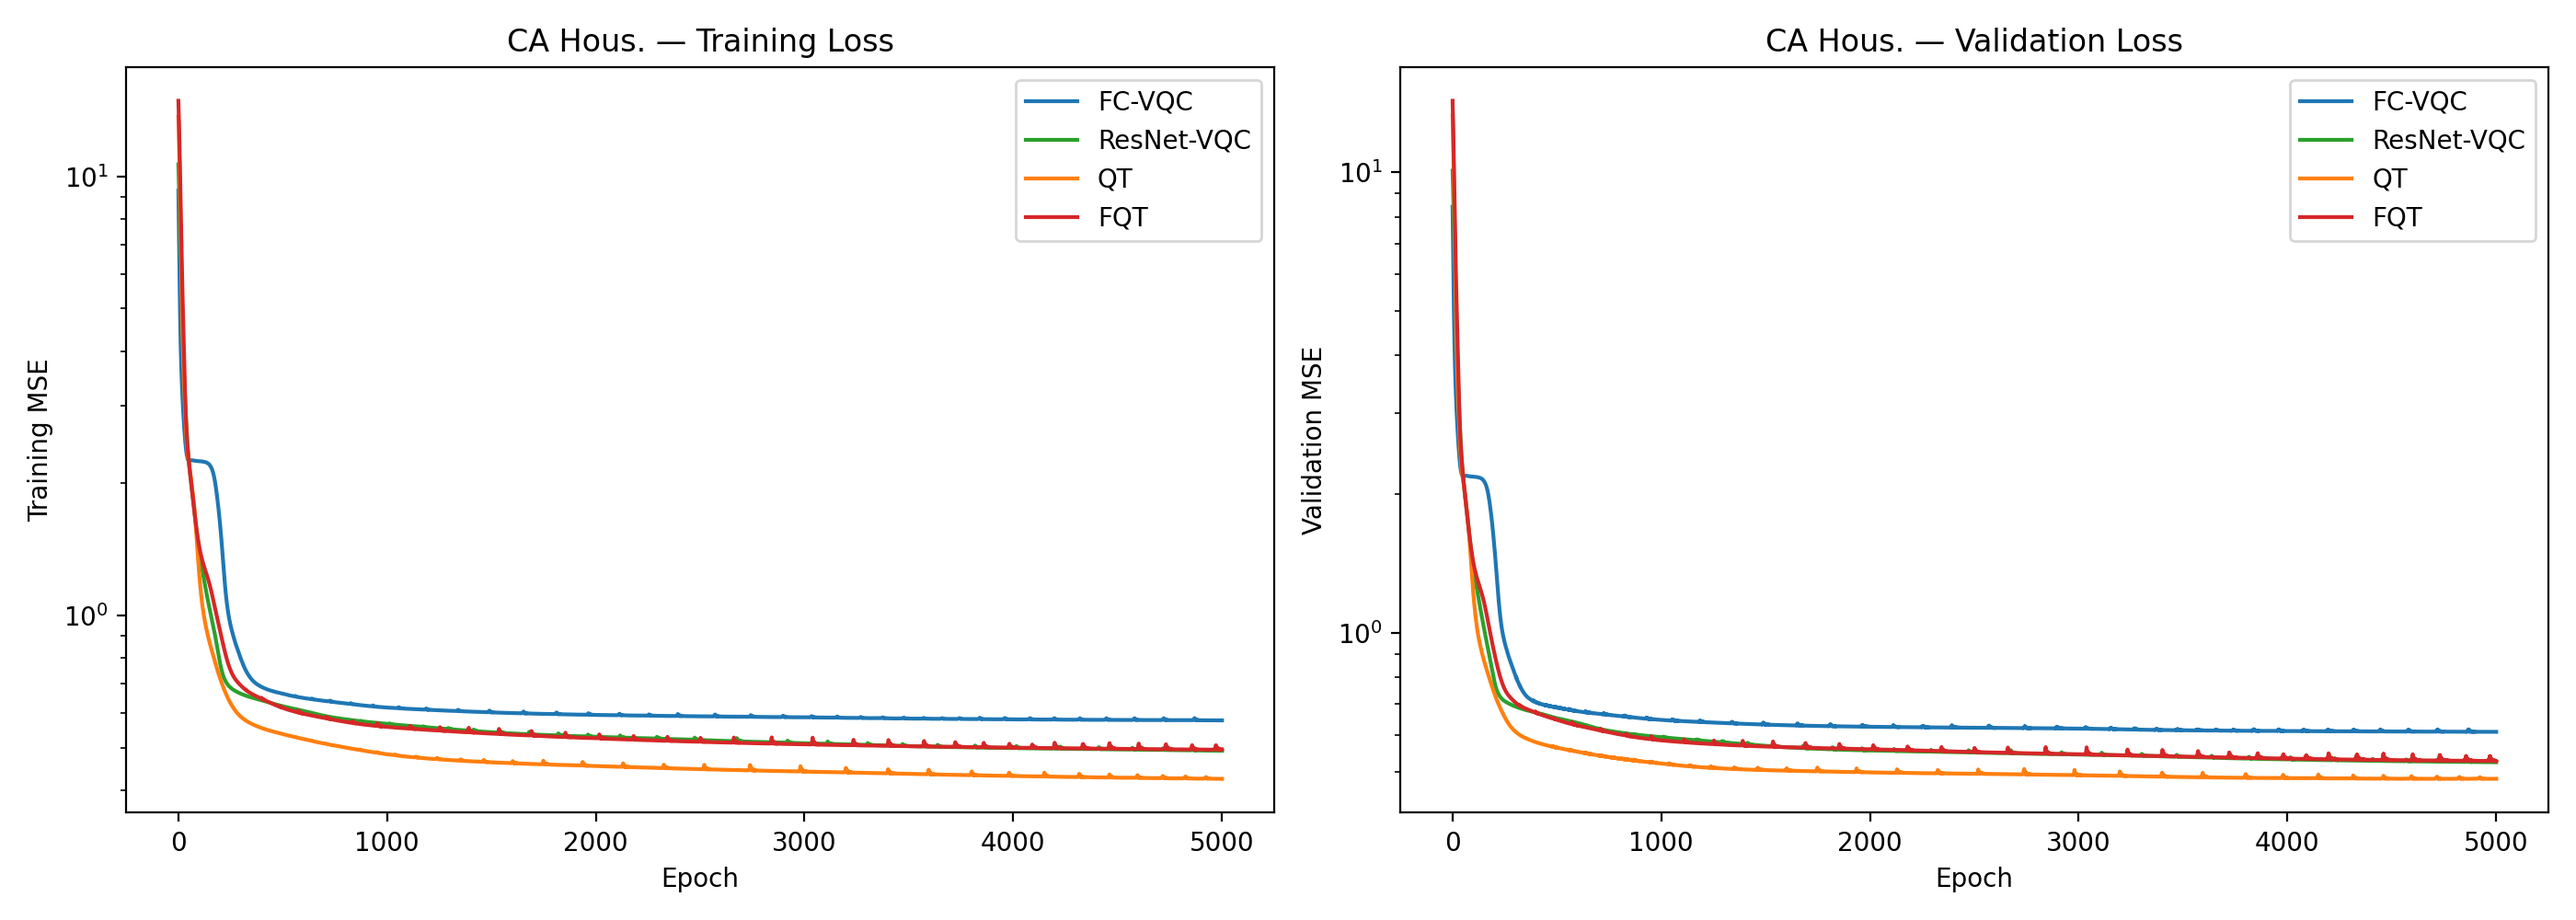
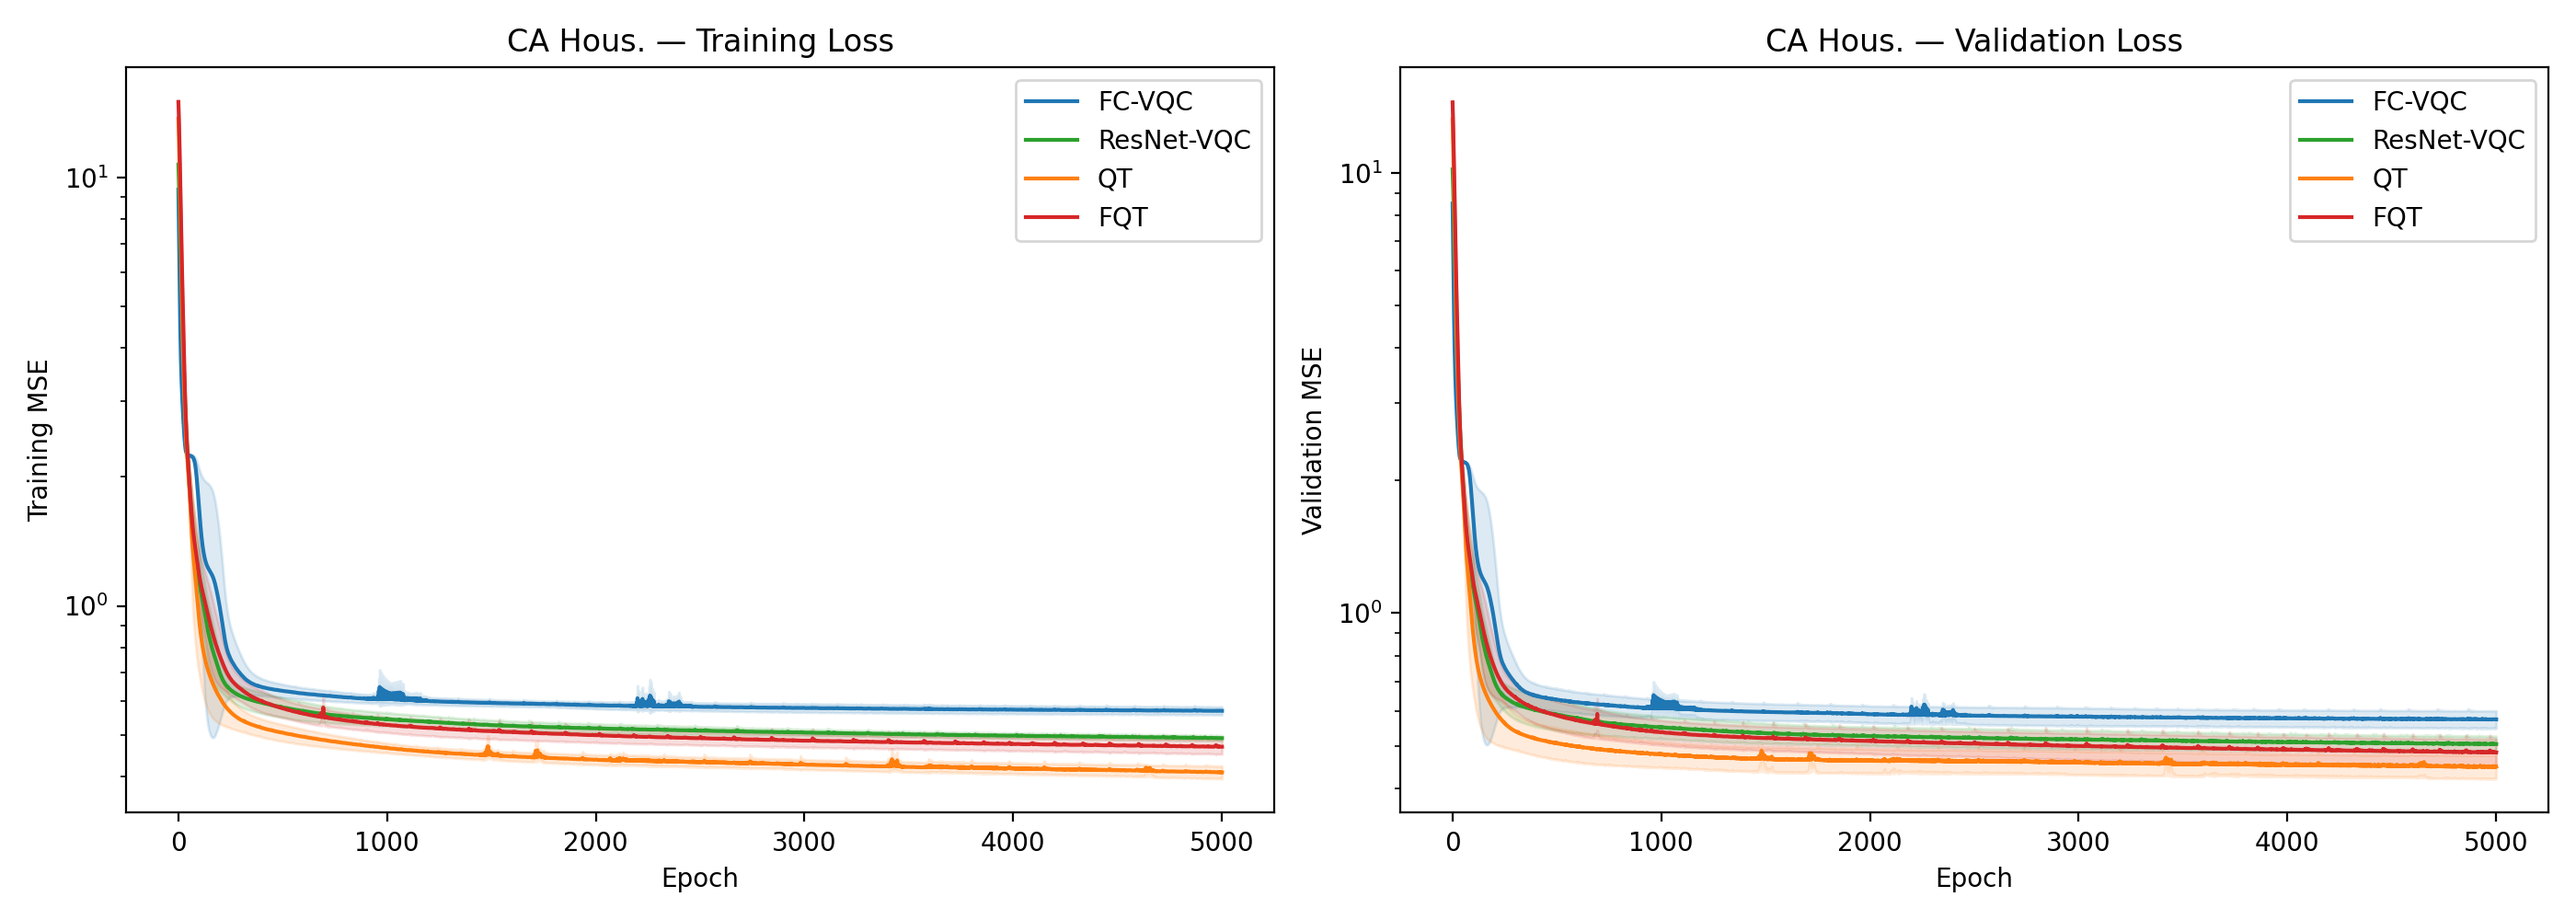
Complete multiseed results: 60 runs (4 models × 5 datasets × 3 seeds)
- multiseed_summary.csv with mean ± std
- tables_multiseed.tex for paper
- 5 training curve comparison plots with std shading
- All 3 seeds complete for all datasets

Changed region(s): [[0.5282, 0.496, 0.9943, 0.868], [0.0311, 0.496, 0.4971, 0.868]]

diff --git a/paper/tables_multiseed.tex b/paper/tables_multiseed.tex
@@ -10,10 +10,10 @@
 \toprule
 Model & Boston & CA Hous. & Concrete & \#params \\
 \midrule
-FC-VQC & $\mathbf{0.889} \pm 0.000$$^{1}$ & $0.752 \pm 0.000$$^{1}$ & $0.756 \pm 0.000$$^{1}$ & 720 \\
-ResNet-VQC & $0.831 \pm 0.000$$^{1}$ & $0.785 \pm 0.000$$^{1}$ & $\mathbf{0.858} \pm 0.000$$^{1}$ & 720 \\
-QT & $0.781 \pm 0.000$$^{1}$ & $\mathbf{0.807} \pm 0.000$$^{1}$ & $0.838 \pm 0.000$$^{1}$ & 1380 \\
-FQT & $0.799 \pm 0.000$$^{1}$ & $0.786 \pm 0.000$$^{1}$ & $0.792 \pm 0.000$$^{1}$ & 855 \\
+FC-VQC & $\mathbf{0.829} \pm 0.042$ & $0.750 \pm 0.001$ & $0.774 \pm 0.021$ & 720 \\
+ResNet-VQC & $0.775 \pm 0.040$ & $0.783 \pm 0.004$ & $0.819 \pm 0.028$ & 720 \\
+QT & $0.742 \pm 0.071$ & $\mathbf{0.807} \pm 0.001$ & $\mathbf{0.853} \pm 0.011$ & 1380 \\
+FQT & $0.705 \pm 0.078$ & $0.794 \pm 0.007$ & $0.780 \pm 0.016$ & 855 \\
 \bottomrule
 \end{tabular}
 \end{table}
@@ -28,10 +28,10 @@ FQT & $0.799 \pm 0.000$$^{1}$ & $0.786 \pm 0.000$$^{1}$ & $0.792 \pm 0.000$$^{1}
 \toprule
 Model & Wine-R & Wine-RW & \#params \\
 \midrule
-FC-VQC & $0.596 \pm 0.000$$^{1}$ & $0.585 \pm 0.000$$^{1}$ & 612 \\
-ResNet-VQC & $\mathbf{0.608} \pm 0.000$$^{1}$ & $0.579 \pm 0.000$$^{1}$ & 570 \\
-QT & $0.588 \pm 0.000$$^{1}$ & $0.587 \pm 0.000$$^{1}$ & 1098 \\
-FQT & $\mathbf{0.608} \pm 0.000$$^{1}$ & $\mathbf{0.592} \pm 0.000$$^{1}$ & 678 \\
+FC-VQC & $0.592 \pm 0.029$ & $0.567 \pm 0.013$ & 612 \\
+ResNet-VQC & $0.601 \pm 0.019$ & $0.567 \pm 0.011$ & 570 \\
+QT & $0.565 \pm 0.023$ & $\mathbf{0.567} \pm 0.015$ & 1098 \\
+FQT & $\mathbf{0.606} \pm 0.017$ & $0.565 \pm 0.019$ & 678 \\
 \bottomrule
 \end{tabular}
 \end{table}
